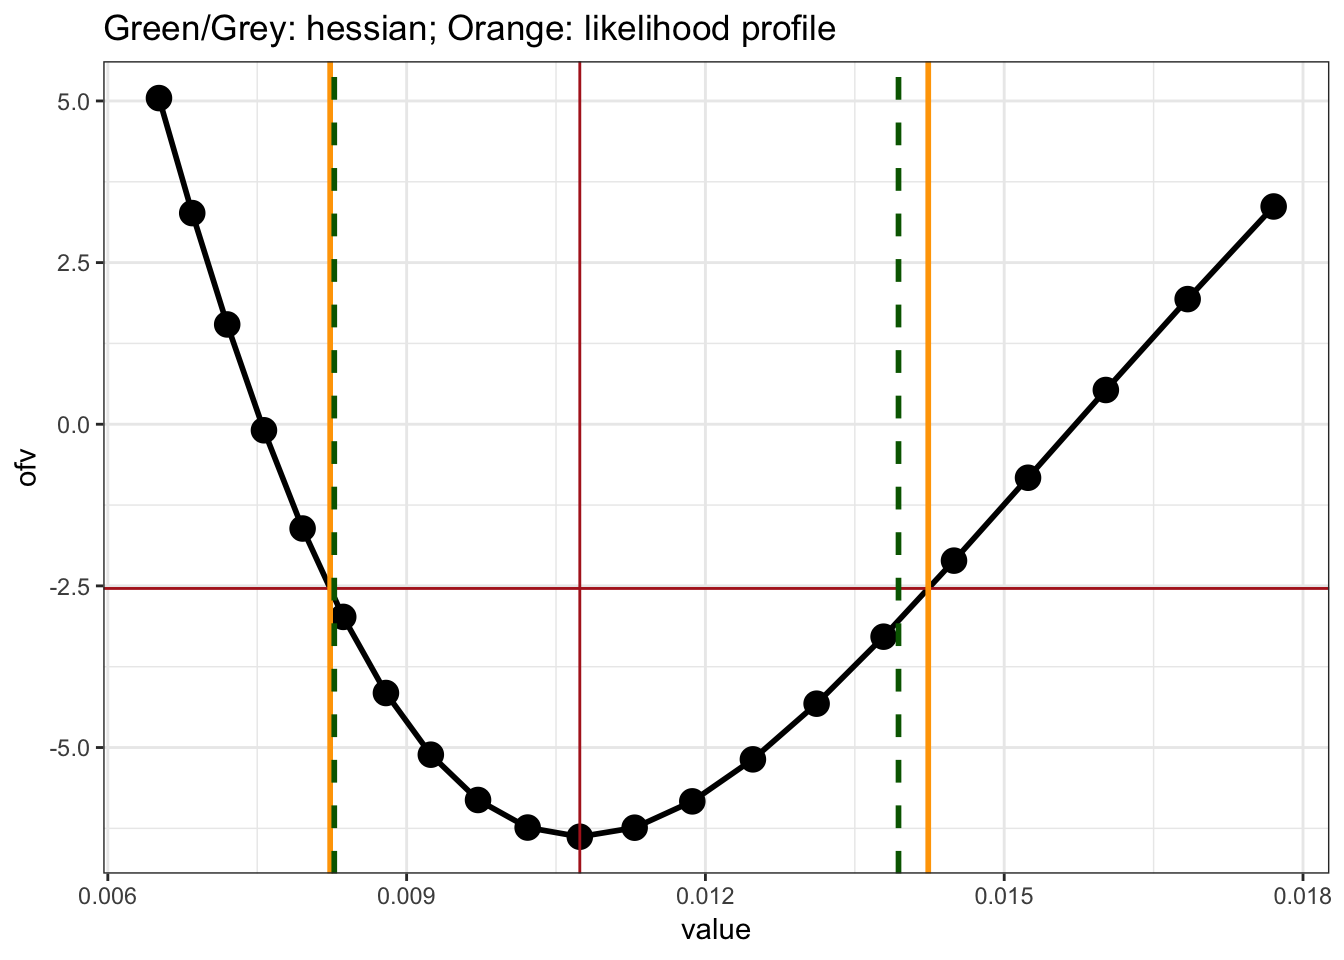
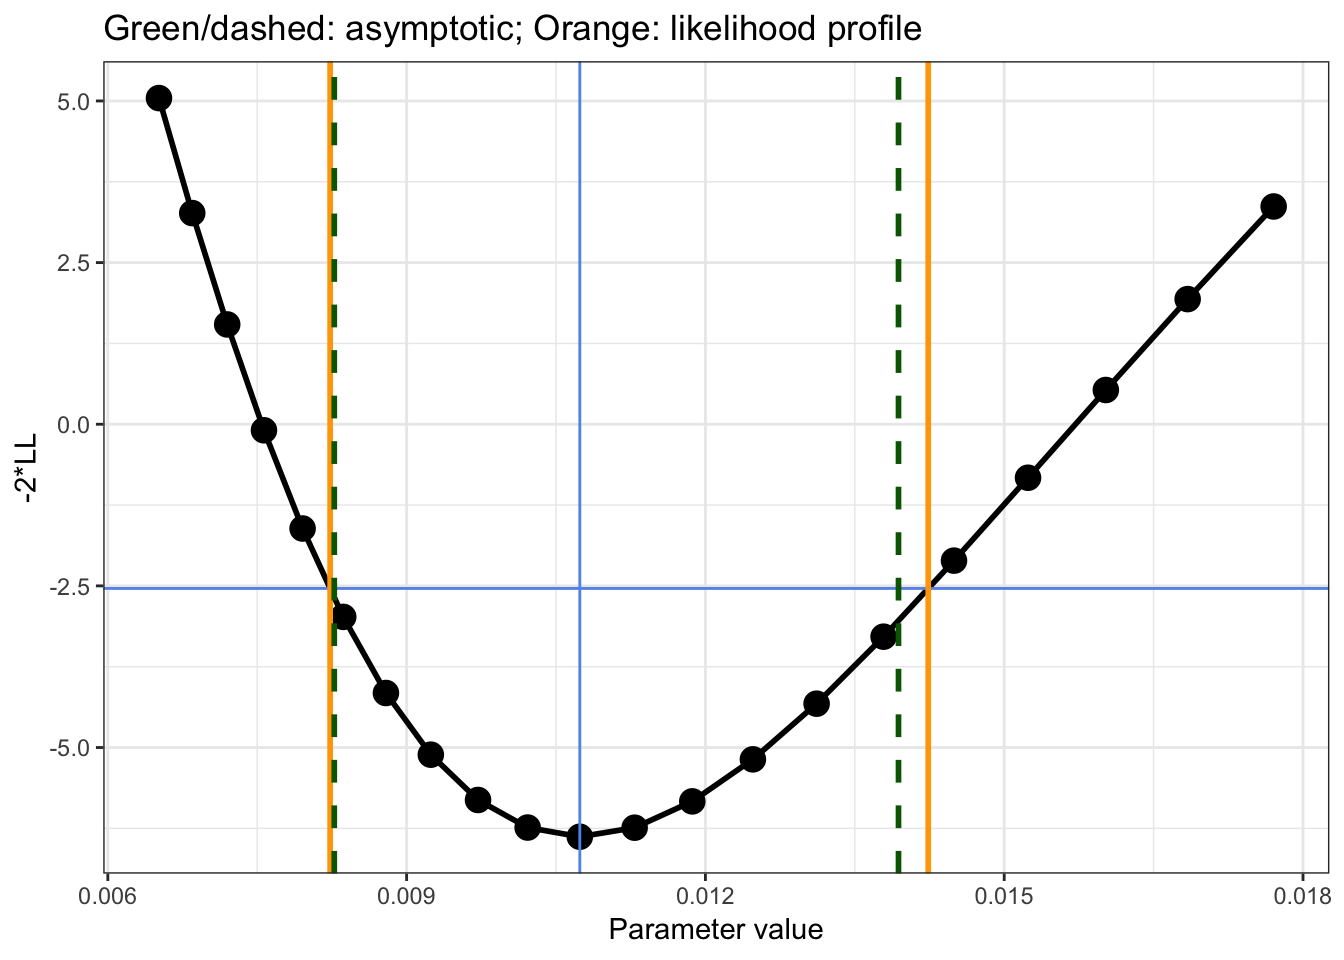
add readme

diff --git a/content/tools_optimization_pbpk_ddi.md b/content/tools_optimization_pbpk_ddi.md
@@ -292,7 +292,7 @@ fit
 
 ### Get some predictions to look at how the fit went
 
-Recall that our parameters are
+Recall that our (transformed) parameters are
 
 ``` r
 fit$par
@@ -303,274 +303,16 @@ fit$par
 We can generate a prediction that matches our data like this
 
 ``` r
-sim_ofv(fit$par,data = dose, pred = TRUE) %>% filter(time >= 1)
+sim_ofv(fit$par,data = dose, pred = TRUE) %>% filter(time >= 1) %>% head
 ```
 
-    .     ID time         CP
-    . 1    2  1.0  0.0000000
-    . 2    2  1.0  0.0000000
-    . 3    2  1.1 18.1930017
-    . 4    2  1.2 28.5554696
-    . 5    2  1.3 36.2290752
-    . 6    2  1.4 42.1357832
-    . 7    2  1.5 46.6374148
-    . 8    2  1.6 49.9684588
-    . 9    2  1.7 52.3044311
-    . 10   2  1.8 53.7866262
-    . 11   2  1.9 54.5344715
-    . 12   2  2.0 54.6522186
-    . 13   2  2.1 54.2326959
-    . 14   2  2.2 53.3594832
-    . 15   2  2.3 52.1082195
-    . 16   2  2.4 50.5474332
-    . 17   2  2.5 48.7391048
-    . 18   2  2.6 46.7390827
-    . 19   2  2.7 44.5974159
-    . 20   2  2.8 42.3586469
-    . 21   2  2.9 40.0620870
-    . 22   2  3.0 37.7420867
-    . 23   2  3.1 35.4283119
-    . 24   2  3.2 33.1460283
-    . 25   2  3.3 30.9163956
-    . 26   2  3.4 28.7567722
-    . 27   2  3.5 26.6810267
-    . 28   2  3.6 24.6998552
-    . 29   2  3.7 22.8210988
-    . 30   2  3.8 21.0500592
-    . 31   2  3.9 19.3898070
-    . 32   2  4.0 17.8414807
-    . 33   2  4.1 16.4045707
-    . 34   2  4.2 15.0771874
-    . 35   2  4.3 13.8563108
-    . 36   2  4.4 12.7380180
-    . 37   2  4.5 11.7176908
-    . 38   2  4.6 10.7901997
-    . 39   2  4.7  9.9500664
-    . 40   2  4.8  9.1916048
-    . 41   2  4.9  8.5090405
-    . 42   2  5.0  7.8966122
-    . 43   2  5.1  7.3486535
-    . 44   2  5.2  6.8596597
-    . 45   2  5.3  6.4243391
-    . 46   2  5.4  6.0376514
-    . 47   2  5.5  5.6948353
-    . 48   2  5.6  5.3914257
-    . 49   2  5.7  5.1232634
-    . 50   2  5.8  4.8864976
-    . 51   2  5.9  4.6775832
-    . 52   2  6.0  4.4932737
-    . 53   2  6.1  4.3306106
-    . 54   2  6.2  4.1869104
-    . 55   2  6.3  4.0597502
-    . 56   2  6.4  3.9469513
-    . 57   2  6.5  3.8465633
-    . 58   2  6.6  3.7568471
-    . 59   2  6.7  3.6762582
-    . 60   2  6.8  3.6034311
-    . 61   2  6.9  3.5371628
-    . 62   2  7.0  3.4763990
-    . 63   2  7.1  3.4202189
-    . 64   2  7.2  3.3678227
-    . 65   2  7.3  3.3185192
-    . 66   2  7.4  3.2717140
-    . 67   2  7.5  3.2268993
-    . 68   2  7.6  3.1836442
-    . 69   2  7.7  3.1415857
-    . 70   2  7.8  3.1004210
-    . 71   2  7.9  3.0598997
-    . 72   2  8.0  3.0198179
-    . 73   2  8.1  2.9800116
-    . 74   2  8.2  2.9403519
-    . 75   2  8.3  2.9007399
-    . 76   2  8.4  2.8611028
-    . 77   2  8.5  2.8213895
-    . 78   2  8.6  2.7815678
-    . 79   2  8.7  2.7416213
-    . 80   2  8.8  2.7015467
-    . 81   2  8.9  2.6613514
-    . 82   2  9.0  2.6210514
-    . 83   2  9.1  2.5806701
-    . 84   2  9.2  2.5402360
-    . 85   2  9.3  2.4997819
-    . 86   2  9.4  2.4593433
-    . 87   2  9.5  2.4189578
-    . 88   2  9.6  2.3786640
-    . 89   2  9.7  2.3385011
-    . 90   2  9.8  2.2985078
-    . 91   2  9.9  2.2587223
-    . 92   2 10.0  2.2191814
-    . 93   2 10.1  2.1799208
-    . 94   2 10.2  2.1409741
-    . 95   2 10.3  2.1023731
-    . 96   2 10.4  2.0641477
-    . 97   2 10.5  2.0263255
-    . 98   2 10.6  1.9889318
-    . 99   2 10.7  1.9519896
-    . 100  2 10.8  1.9155198
-    . 101  2 10.9  1.8795409
-    . 102  2 11.0  1.8440694
-    . 103  2 11.1  1.8091193
-    . 104  2 11.2  1.7747028
-    . 105  2 11.3  1.7408302
-    . 106  2 11.4  1.7075096
-    . 107  2 11.5  1.6747476
-    . 108  2 11.6  1.6425488
-    . 109  2 11.7  1.6109167
-    . 110  2 11.8  1.5798527
-    . 111  2 11.9  1.5493575
-    . 112  2 12.0  1.5194299
-    . 113  2 12.1  1.4900680
-    . 114  2 12.2  1.4612686
-    . 115  2 12.3  1.4330277
-    . 116  2 12.4  1.4053404
-    . 117  2 12.5  1.3782009
-    . 118  2 12.6  1.3516028
-    . 119  2 12.7  1.3255392
-    . 120  2 12.8  1.3000025
-    . 121  2 12.9  1.2749847
-    . 122  2 13.0  1.2504776
-    . 123  2 13.1  1.2264725
-    . 124  2 13.2  1.2029604
-    . 125  2 13.3  1.1799321
-    . 126  2 13.4  1.1573785
-    . 127  2 13.5  1.1352900
-    . 128  2 13.6  1.1136572
-    . 129  2 13.7  1.0924706
-    . 130  2 13.8  1.0717208
-    . 131  2 13.9  1.0513982
-    . 132  2 14.0  1.0314934
-    . 133  1  1.0  0.0000000
-    . 134  1  1.0  0.0000000
-    . 135  1  1.1  9.0207778
-    . 136  1  1.2 12.3918173
-    . 137  1  1.3 14.1500160
-    . 138  1  1.4 15.0023896
-    . 139  1  1.5 15.2638810
-    . 140  1  1.6 15.1293726
-    . 141  1  1.7 14.7289994
-    . 142  1  1.8 14.1531818
-    . 143  1  1.9 13.4663922
-    . 144  1  2.0 12.7153077
-    . 145  1  2.1 11.9339314
-    . 146  1  2.2 11.1469867
-    . 147  1  2.3 10.3722744
-    . 148  1  2.4  9.6223734
-    . 149  1  2.5  8.9059013
-    . 150  1  2.6  8.2284675
-    . 151  1  2.7  7.5934033
-    . 152  1  2.8  7.0023254
-    . 153  1  2.9  6.4555725
-    . 154  1  3.0  5.9525432
-    . 155  1  3.1  5.4919589
-    . 156  1  3.2  5.0720667
-    . 157  1  3.3  4.6907960
-    . 158  1  3.4  4.3458784
-    . 159  1  3.5  4.0349393
-    . 160  1  3.6  3.7555664
-    . 161  1  3.7  3.5053621
-    . 162  1  3.8  3.2819803
-    . 163  1  3.9  3.0831542
-    . 164  1  4.0  2.9067152
-    . 165  1  4.1  2.7506048
-    . 166  1  4.2  2.6128828
-    . 167  1  4.3  2.4917306
-    . 168  1  4.4  2.3854527
-    . 169  1  4.5  2.2924751
-    . 170  1  4.6  2.2113427
-    . 171  1  4.7  2.1407154
-    . 172  1  4.8  2.0793636
-    . 173  1  4.9  2.0261626
-    . 174  1  5.0  1.9800876
-    . 175  1  5.1  1.9402073
-    . 176  1  5.2  1.9056789
-    . 177  1  5.3  1.8757417
-    . 178  1  5.4  1.8497115
-    . 179  1  5.5  1.8269757
-    . 180  1  5.6  1.8069874
-    . 181  1  5.7  1.7892604
-    . 182  1  5.8  1.7733646
-    . 183  1  5.9  1.7589212
-    . 184  1  6.0  1.7455982
-    . 185  1  6.1  1.7331068
-    . 186  1  6.2  1.7211966
-    . 187  1  6.3  1.7096531
-    . 188  1  6.4  1.6982933
-    . 189  1  6.5  1.6869632
-    . 190  1  6.6  1.6755346
-    . 191  1  6.7  1.6639024
-    . 192  1  6.8  1.6519821
-    . 193  1  6.9  1.6397075
-    . 194  1  7.0  1.6270284
-    . 195  1  7.1  1.6139089
-    . 196  1  7.2  1.6003255
-    . 197  1  7.3  1.5862653
-    . 198  1  7.4  1.5717249
-    . 199  1  7.5  1.5567085
-    . 200  1  7.6  1.5412270
-    . 201  1  7.7  1.5252972
-    . 202  1  7.8  1.5089402
-    . 203  1  7.9  1.4921807
-    . 204  1  8.0  1.4750466
-    . 205  1  8.1  1.4575678
-    . 206  1  8.2  1.4397759
-    . 207  1  8.3  1.4217034
-    . 208  1  8.4  1.4033836
-    . 209  1  8.5  1.3848496
-    . 210  1  8.6  1.3661348
-    . 211  1  8.7  1.3472716
-    . 212  1  8.8  1.3282921
-    . 213  1  8.9  1.3092271
-    . 214  1  9.0  1.2901065
-    . 215  1  9.1  1.2709588
-    . 216  1  9.2  1.2518113
-    . 217  1  9.3  1.2326896
-    . 218  1  9.4  1.2136180
-    . 219  1  9.5  1.1946192
-    . 220  1  9.6  1.1757144
-    . 221  1  9.7  1.1569231
-    . 222  1  9.8  1.1382634
-    . 223  1  9.9  1.1197518
-    . 224  1 10.0  1.1014035
-    . 225  1 10.1  1.0832321
-    . 226  1 10.2  1.0652498
-    . 227  1 10.3  1.0474675
-    . 228  1 10.4  1.0298949
-    . 229  1 10.5  1.0125404
-    . 230  1 10.6  0.9954114
-    . 231  1 10.7  0.9785141
-    . 232  1 10.8  0.9618537
-    . 233  1 10.9  0.9454344
-    . 234  1 11.0  0.9292597
-    . 235  1 11.1  0.9133321
-    . 236  1 11.2  0.8976535
-    . 237  1 11.3  0.8822250
-    . 238  1 11.4  0.8670470
-    . 239  1 11.5  0.8521196
-    . 240  1 11.6  0.8374420
-    . 241  1 11.7  0.8230132
-    . 242  1 11.8  0.8088318
-    . 243  1 11.9  0.7948957
-    . 244  1 12.0  0.7812028
-    . 245  1 12.1  0.7677506
-    . 246  1 12.2  0.7545362
-    . 247  1 12.3  0.7415568
-    . 248  1 12.4  0.7288090
-    . 249  1 12.5  0.7162895
-    . 250  1 12.6  0.7039949
-    . 251  1 12.7  0.6919216
-    . 252  1 12.8  0.6800658
-    . 253  1 12.9  0.6684238
-    . 254  1 13.0  0.6569919
-    . 255  1 13.1  0.6457662
-    . 256  1 13.2  0.6347428
-    . 257  1 13.3  0.6239181
-    . 258  1 13.4  0.6132880
-    . 259  1 13.5  0.6028489
-    . 260  1 13.6  0.5925970
-    . 261  1 13.7  0.5825286
-    . 262  1 13.8  0.5726400
-    . 263  1 13.9  0.5629276
-    . 264  1 14.0  0.5533878
+    .   ID time       CP
+    . 1  2  1.0  0.00000
+    . 2  2  1.0  0.00000
+    . 3  2  1.1 18.19300
+    . 4  2  1.2 28.55547
+    . 5  2  1.3 36.22908
+    . 6  2  1.4 42.13578
 
 We can also get the predictions under the initial conditions by passing
 in `theta` rather than `fit$par`

diff --git a/content/tools_profile_likelihood.md b/content/tools_profile_likelihood.md
@@ -188,11 +188,12 @@ list(hess = exp(ci), profile = c(lower = lb, uppper = ub))
 
 ``` r
 ggplot(df, aes(value,ofv)) + geom_line(lwd=1) + geom_point(size=4) + 
-  geom_hline(yintercept = target, col="firebrick") + 
-  geom_vline(xintercept = exp(fit$par[parn]),col="firebrick") + 
+  geom_hline(yintercept = target, col="cornflowerblue") + 
+  geom_vline(xintercept = exp(fit$par[parn]),col="cornflowerblue") + 
   geom_vline(xintercept = c(lb,ub),col="orange",lwd=1) +
   geom_vline(xintercept = exp(ci),col="darkgreen",lwd=1,lty=2) +
-  ggtitle("Green/Grey: hessian; Orange: likelihood profile")
+  ggtitle("Green/dashed: asymptotic; Orange: likelihood profile") + ylab("-2*LL") + 
+  scale_x_continuous(name="Parameter value")
 ```
 
 <img src="figures/llp-unnamed-chunk-15-1.png" style="display: block; margin: auto;" />
